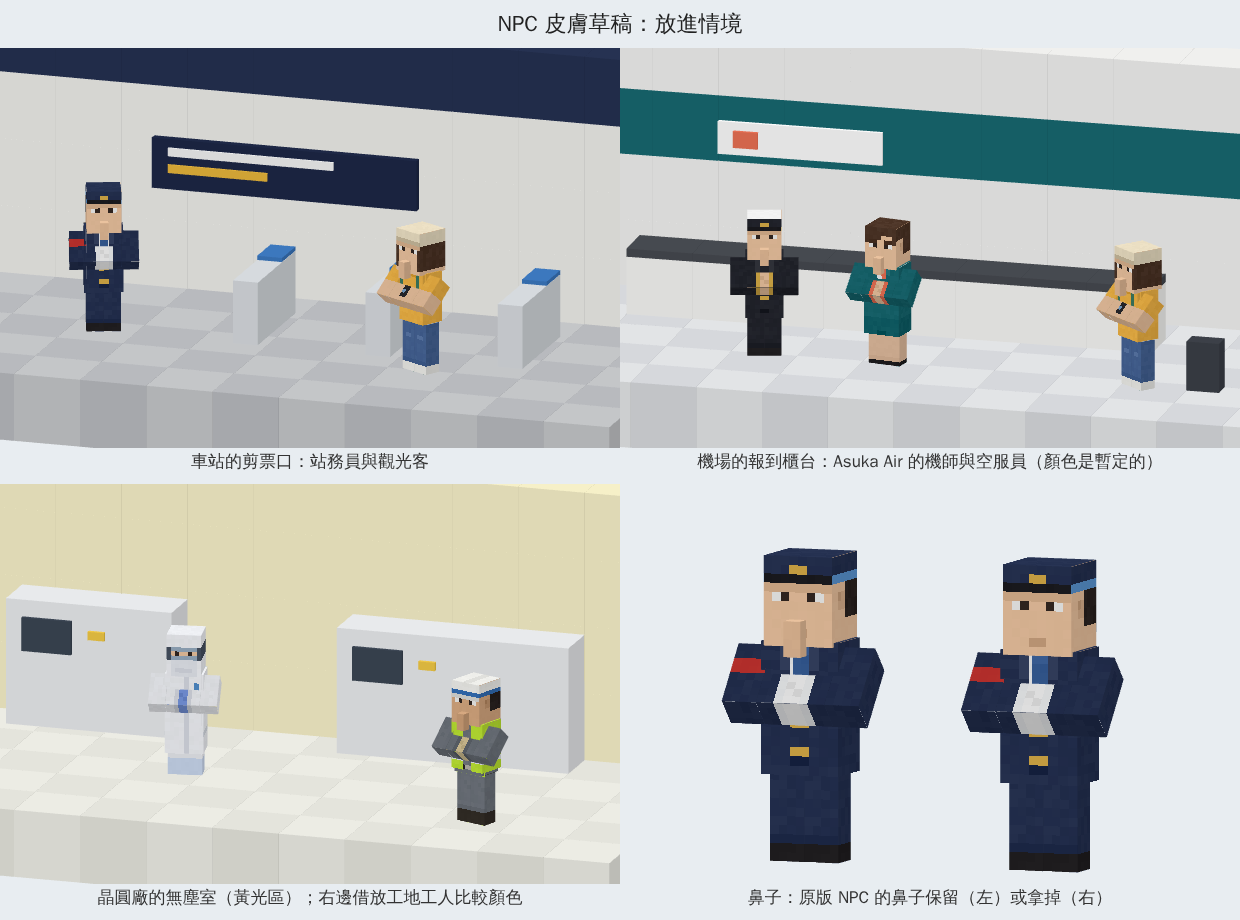
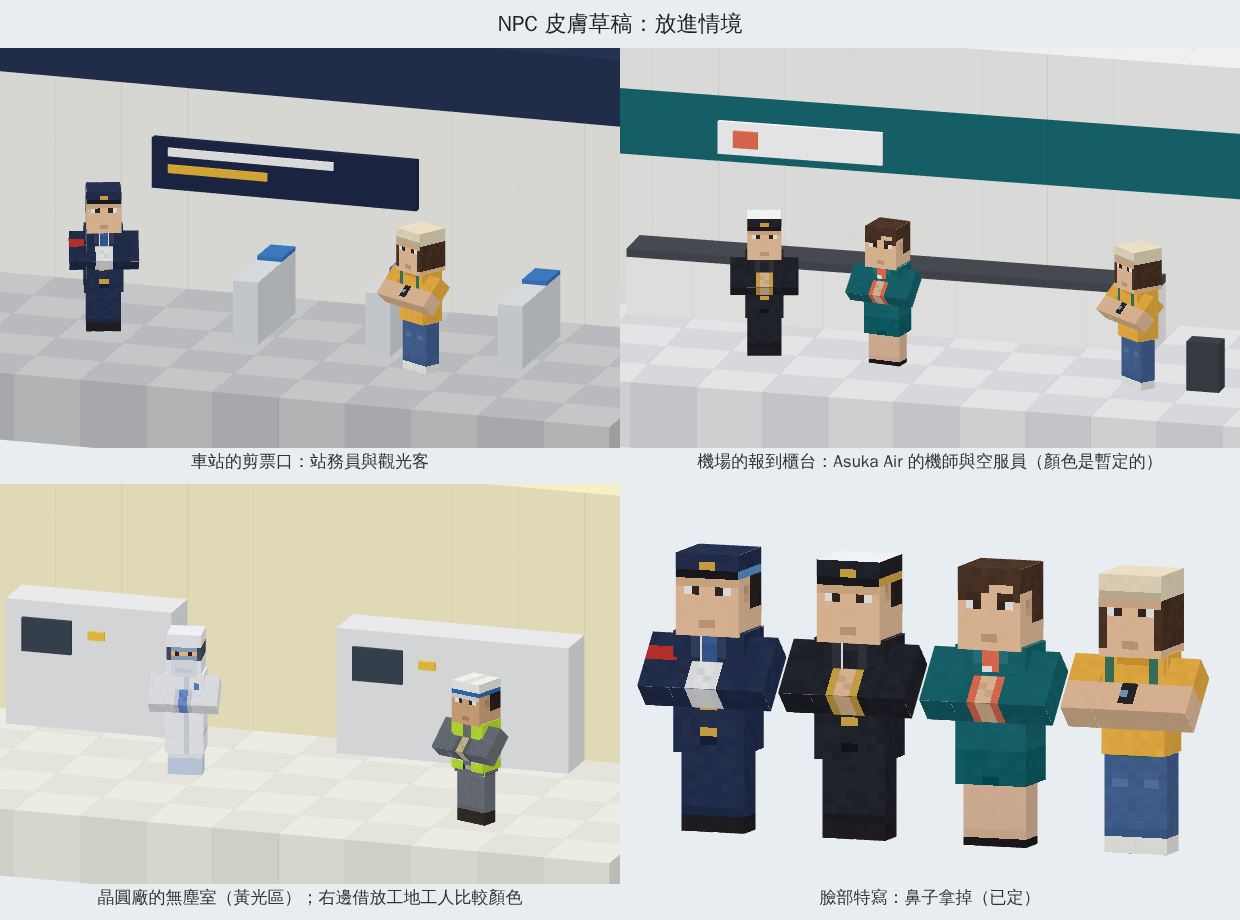
Remove the nose from every NPC skin draft
The author chose plain faces over the villager nose of the NPC model, so
the nose box is left transparent. The nose comparison panel becomes a
close-up of four faces.

Claude-Session: https://claude.ai/code/session_011uVpnSoi9qmCPqu2oJnMET

Changed region(s): [[0.4903, 0.5783, 0.9806, 1.0], [0.8887, 0.3043, 0.9194, 0.3348], [0.3065, 0.2739, 0.3371, 0.3043]]

diff --git a/addon/drafts/npc/build.py b/addon/drafts/npc/build.py
@@ -24,8 +24,8 @@ drawn (hat) or hidden by the render controller (pants), so they stay empty.
 
 Skins are drawn in code from the pieces below and written to skins/<id>.png;
 which vanilla slot each one replaces is recorded in docs/npc.md. Colours get
-a faint per-pixel grain, like the other drafts. compare_no_nose.png is the
-station staff with the nose left transparent, only for the comparison panel.
+a faint per-pixel grain, like the other drafts. The nose is always left
+transparent, so it does not show (the author's decision, 2026-11-02).
 
 npc_preview.geo.json rebuilds geometry.npc for the preview tool only: the
 inflation and the folded-arm pose are baked in, rotations use the preview
@@ -141,8 +141,9 @@ def side_hair(s, hair, top_rows, back_rows, ear=True, skin=SKIN):
             s.paint("head", f, ex + (1 if f == "right" else 0), top_rows + 1, shade(skin, -4), 1, 1)
 
 
-def head(s, skin=SKIN, hair=HAIR_BLACK, style="short", eyes=EYE, nose=True, brows=True):
-    """Face rows: 0-2 hair, 3 brows, 4 eyes, 7-9 behind the nose, 9 chin."""
+def head(s, skin=SKIN, hair=HAIR_BLACK, style="short", eyes=EYE, brows=True):
+    """Face rows: 0-2 hair, 3 brows, 4 eyes, 8 mouth, 9 chin. The nose box stays
+    transparent, so the villager nose of the NPC model does not show."""
     s.fill("head", skin, grain=1)
     hs = shade(hair, -1)
     s.paint("head", "top", 0, 0, hair, 8, 8, grain=4)
@@ -184,16 +185,12 @@ def head(s, skin=SKIN, hair=HAIR_BLACK, style="short", eyes=EYE, nose=True, brow
         s.both("head", 1, 3, hs, 2, 1)
     s.both("head", 1, 4, EYE_WHITE)
     s.both("head", 2, 4, eyes)
-    s.paint("head", "front", 3, 8, shade(skin, -4), 2, 1)   # mouth, mostly behind the nose
+    s.paint("head", "front", 3, 8, shade(skin, -4), 2, 1)   # mouth
     s.paint("head", "bottom", 0, 0, shade(skin, -2), 8, 8, grain=1)
-    if nose:
-        s.fill("nose", shade(skin, -1), grain=1)
-        s.paint("nose", "top", 0, 0, skin, 2, 2)
-        s.paint("nose", "bottom", 0, 0, shade(skin, -3), 2, 2)
 
 
 def face_skin(s):
-    """The skin colour of an already painted face (below the eyes, beside the nose)."""
+    """The skin colour of an already painted face (below the eyes, beside the mouth)."""
     x, y, _, _ = face_rect("head", "front")
     return s.img.getpixel((x + 3, y + 6))[:3]
 
@@ -347,7 +344,7 @@ def cleanroom():
     """晶圓廠 (無塵室): white coverall with hood and mask, goggles, blue gloves."""
     s = Skin(4)
     suit, crease = (238, 240, 244), (214, 218, 226)
-    head(s, nose=False, brows=False)
+    head(s, brows=False)
     s.fill("head", suit, grain=2)
     s.ring("head", 3, (70, 80, 96), 3, grain=1)        # goggle band
     s.paint("head", "front", 1, 3, (150, 170, 190), 6, 3, grain=1)
@@ -568,30 +565,23 @@ def fab_scene():
             "camera": {"azimuth": 18, "elevation": 16, "size": 92, "target": [8, 22, -16]}, "objects": objs}
 
 
-def nose_scene():
-    no_nose = dict(npc("station_staff", 14, 0, 0), texture=f"{REL}/compare_no_nose.png")
-    objs = [npc("station_staff", -14, 0, 0), no_nose]
-    return {"label": "鼻子：原版 NPC 的鼻子保留（左）或拿掉（右）",
-            "camera": {"azimuth": 20, "elevation": 6, "size": 44, "target": [0, 20, 0]}, "objects": objs}
+def face_scene():
+    names = ("station_staff", "pilot", "flight_attendant", "tourist")
+    objs = [npc(n, -27 + 18 * i, 0, 0) for i, n in enumerate(names)]
+    return {"label": "臉部特寫：鼻子拿掉（已定）",
+            "camera": {"azimuth": 20, "elevation": 8, "size": 48, "target": [0, 19, 0]}, "objects": objs}
 
 
 def scenes():
     return {"title": "NPC 皮膚草稿：放進情境", "columns": 2, "panelWidth": 620, "panelHeight": 400,
             "background": "#e8edf1",
-            "panels": [station_scene(), airport_scene(), fab_scene(), nose_scene()]}
+            "panels": [station_scene(), airport_scene(), fab_scene(), face_scene()]}
 
 
 if __name__ == "__main__":
     for name, (_, make) in CHARACTERS.items():
         make().save(name)
-    # the nose comparison: the station staff without the nose
-    s = station_staff()
-    s.paint("nose", "top", 0, 0, None, 2, 2)
-    s.paint("nose", "bottom", 0, 0, None, 2, 2)
-    for f in SIDES:
-        s.paint("nose", f, 0, 0, None, 2, 4)
-    s.img.save(HERE / "compare_no_nose.png")
     (HERE / "npc_preview.geo.json").write_text(json.dumps(PREVIEW_GEO, indent=1) + "\n", encoding="utf-8")
     (HERE / "preview.json").write_text(json.dumps(lineup(), ensure_ascii=False, indent=1) + "\n", encoding="utf-8")
     (HERE / "scene.json").write_text(json.dumps(scenes(), ensure_ascii=False, indent=1) + "\n", encoding="utf-8")
-    print(f"wrote {len(CHARACTERS)} skins, compare_no_nose.png, npc_preview.geo.json, preview.json, scene.json")
+    print(f"wrote {len(CHARACTERS)} skins, npc_preview.geo.json, preview.json, scene.json")
